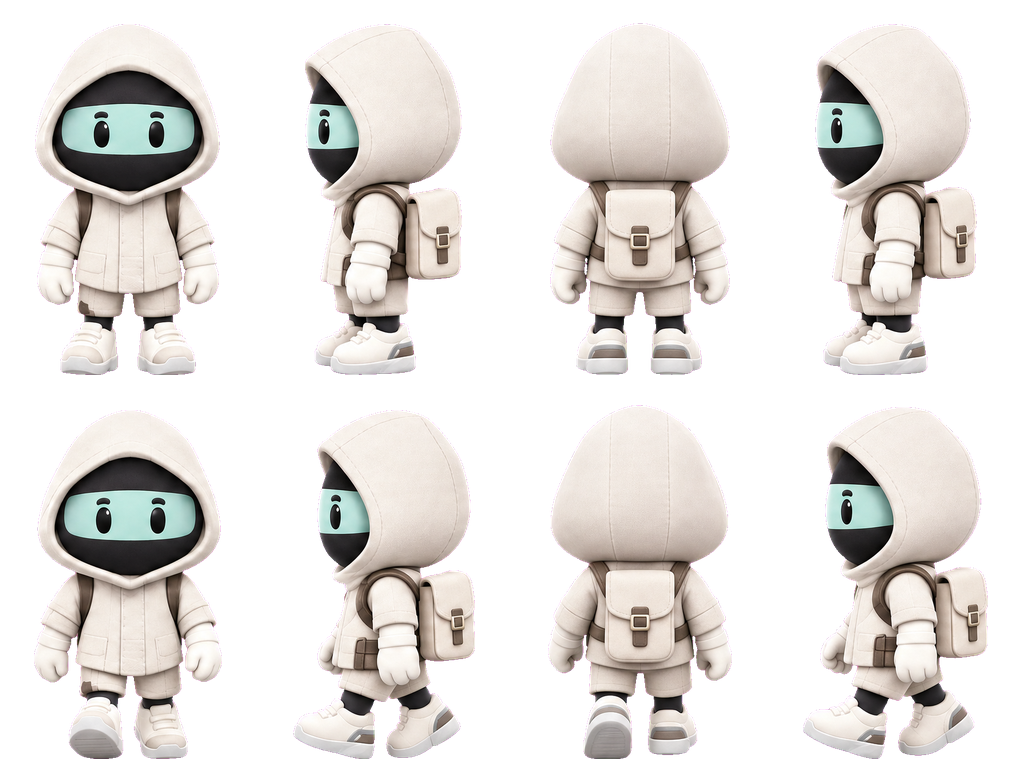
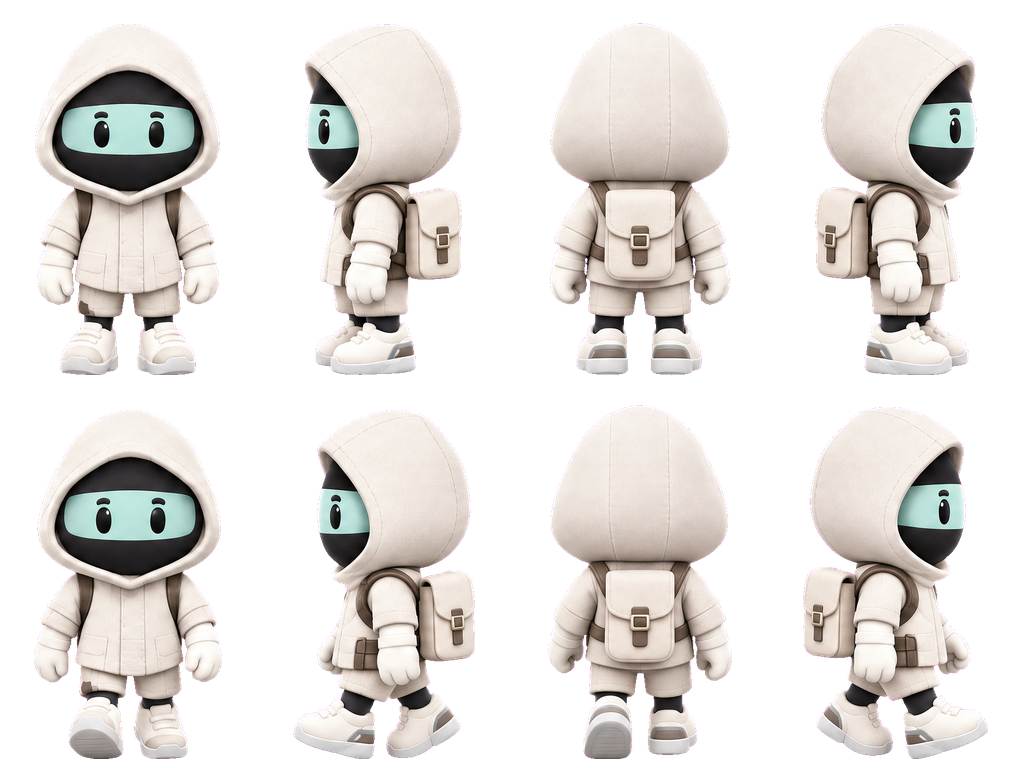
Fix Archive Keeper right-facing art and validate sprite directions

Changed region(s): [[0.7812, 0.5625, 0.9688, 1.0], [0.7812, 0.0625, 0.9688, 0.5]]

diff --git a/tests/costumes.test.ts b/tests/costumes.test.ts
@@ -1,6 +1,7 @@
 import test from 'node:test';
 import assert from 'node:assert/strict';
 import {readFileSync} from 'node:fs';
+import {createHash} from 'node:crypto';
 import {COSTUMES,costumeFor,costumeFrame} from '../shared/costumes';
 import {STORE_ITEMS,emptyInventory,redeemCredits,isStoreItemForSale} from '../shared/store';
 import {readAccount} from '../src/commerce/account-model';
@@ -14,13 +15,13 @@ import {initialState,idleInput,step} from '../src/game/simulation';
 
 test('all six costumes have distinct portraits, eight poses and stable old inventory IDs',()=>{
  assert.equal(COSTUMES.length,6);assert.equal(manifest.length,6);assert.equal(frames.length,8);
- for(const c of COSTUMES){assert(manifest.some(m=>m.name===c.asset&&m.frames===8));assert(readFileSync(`assets/costumes-v4/${c.asset}.png`).length>10000);}
+ for(const c of COSTUMES){const entry=manifest.find(m=>m.name===c.asset);assert(entry&&entry.frames===8);assert(readFileSync(`assets/costumes-v4/${c.asset}.png`).length>10000);assert.equal(createHash('sha256').update(readFileSync(`assets/costumes-v4/${c.asset}-atlas.png`)).digest('hex'),entry.sha256,`${c.asset} matches the validated atlas`);}
  assert.equal(costumeFor('signal-runner').name,'Frost Runner');assert.equal(costumeFor('ghost-courier').name,'Ghost Signal');
  assert.equal(costumeFor('unknown').id,'default');
  const base={week:'2026-09-14',rank:null,points:0,cleared:0,ticks:0,domain:null,wallet:'test',final:false,local:true,earned:false};
  assert.equal(new Set(COSTUMES.map(c=>cardPortrait({...base,outfit:c.id}))).size,6);
 });
-test('courier art faces its movement direction and every walking frame stays inside its atlas',()=>{
+test('courier direction indices and walking frame bounds match the atlas layout',()=>{
  assert.deepEqual([0,1,2,3].map(i=>costumeFrame(i,false)),[0,1,2,3]);
  assert.deepEqual([0,1,2,3].map(i=>costumeFrame(i,true)),[4,5,6,7]);
  for(const f of frames){assert(f.x>=0&&f.y>=0&&f.x+f.width<=1024&&f.y+f.height<=768);}

diff --git a/scripts/prepare-costumes.py b/scripts/prepare-costumes.py
@@ -3,11 +3,17 @@ from pathlib import Path
 import base64, hashlib, json
 import numpy as np
 from PIL import Image, ImageDraw
+from importlib.util import spec_from_file_location, module_from_spec
 
 ROOT=Path(__file__).resolve().parents[1]
 SOURCE=ROOT/'output/imagegen/costumes-v4'
 DEST=ROOT/'assets/costumes-v4'
 NAMES=['default','frost-runner','night-courier','circuit-scout','archive-keeper','ghost-signal']
+# GPT drew both Archive Keeper side columns facing left. Correct the source
+# cells before normalization; do not swap global direction indices.
+MIRRORED_SOURCE_FRAMES={'archive-keeper':(3,7)}
+spec=spec_from_file_location('costume_directions',ROOT/'scripts/check-costume-directions.py')
+directions=module_from_spec(spec);spec.loader.exec_module(directions)
 DEST.mkdir(exist_ok=True)
 manifest=[]; embedded={}
 for name in NAMES:
@@ -29,6 +35,8 @@ for name in NAMES:
     cells=[]; w,h=im.size
     for i in range(8):
         cell=im.crop((i%4*w//4,i//4*h//2,(i%4+1)*w//4,(i//4+1)*h//2))
+        if i in MIRRORED_SOURCE_FRAMES.get(name,()):
+            cell=cell.transpose(Image.Transpose.FLIP_LEFT_RIGHT)
         bounds=cell.getchannel('A').point(lambda x:255 if x>35 else 0).getbbox()
         if not bounds: raise SystemExit(f'Empty {name} frame {i}')
         if bounds[0]<3 or bounds[1]<3 or bounds[2]>cell.width-3 or bounds[3]>cell.height-3:
@@ -39,6 +47,7 @@ for name in NAMES:
     for i,cell in enumerate(cells):
         sprite=cell.resize((round(cell.width*scale),round(cell.height*scale)),Image.Resampling.LANCZOS)
         atlas.alpha_composite(sprite,(i%4*256+(256-sprite.width)//2,i//4*384+375-sprite.height))
+    directions.check_directions(atlas,name)
     atlas.save(DEST/(name+'-atlas.png'),optimize=True)
     front=cells[0]; scale=min(460/front.width,708/front.height)
     front=front.resize((round(front.width*scale),round(front.height*scale)),Image.Resampling.LANCZOS)
@@ -50,6 +59,8 @@ for name in NAMES:
         reference=str((SOURCE/(name+'-reference.png')).relative_to(ROOT)),prompt=str((SOURCE/(name+'.prompt.txt')).relative_to(ROOT)),
         atlas=name+'-atlas.png',portrait=name+'.png',frames=8,frameWidth=256,frameHeight=384,
         sha256=hashlib.sha256((DEST/(name+'-atlas.png')).read_bytes()).hexdigest()))
+    if name in MIRRORED_SOURCE_FRAMES:
+        manifest[-1]['mirroredSourceFrames']=list(MIRRORED_SOURCE_FRAMES[name])
     print('Prepared',name)
 if len(manifest)!=6: raise SystemExit('All six generations are required')
 (DEST/'portraits.embedded.json').write_text(json.dumps(embedded,separators=(',',':'))+'\n')

diff --git a/scripts/check-costume-directions.py b/scripts/check-costume-directions.py
@@ -1,0 +1,53 @@
+"""Check the mint visor's side in the fixed 256x384 courier atlas cells.
+
+This is deliberately specific to our six approved sheets. It checks pixels,
+not frame names, so a generated right pose that actually faces left is rejected.
+Requires Pillow, as does the asset preparation pipeline.
+"""
+from pathlib import Path
+from PIL import Image
+
+
+def check_directions(atlas, name):
+    if atlas.size != (1024, 768):
+        raise ValueError(f'{name}: unexpected atlas size {atlas.size}')
+    results = []
+    for frame in (1, 3, 5, 7):
+        x, y = frame % 4 * 256, frame // 4 * 384
+        head = atlas.crop((x, y, x + 256, y + 190)).convert('RGBA')
+        xs = []
+        for yy in range(head.height):
+            for xx in range(head.width):
+                r, g, b, alpha = head.getpixel((xx, yy))
+                if alpha > 220 and g > r * 1.15 and g > b * 1.03 and g > 90 and b > r * 1.04:
+                    xs.append(xx)
+        if len(xs) < 100:
+            raise ValueError(f'{name} frame {frame}: cannot reliably locate visor; inspect art')
+        center = sum(xs) / len(xs)
+        expected = 'left' if frame in (1, 5) else 'right'
+        if (expected == 'left' and center >= 128) or (expected == 'right' and center <= 128):
+            raise ValueError(f'{name} frame {frame}: visor faces the wrong way for {expected} (x={center:.1f})')
+        results.append({'frame': frame, 'direction': expected, 'visorX': round(center, 1)})
+    return results
+
+
+if __name__ == '__main__':
+    import json
+    root = Path(__file__).resolve().parents[1] / 'assets/costumes-v4'
+    results = {}
+    for file in sorted(root.glob('*-atlas.png')):
+        atlas = Image.open(file).convert('RGBA')
+        results[file.stem] = check_directions(atlas, file.stem)
+        # Negative control: detect this exact bug if any correct right frame is flipped.
+        broken = atlas.copy()
+        cell = atlas.crop((768, 0, 1024, 384)).transpose(Image.Transpose.FLIP_LEFT_RIGHT)
+        broken.paste(cell, (768, 0))
+        try:
+            check_directions(broken, file.stem)
+        except ValueError:
+            pass
+        else:
+            raise AssertionError(f'{file.stem}: failed to detect deliberately reversed right frame')
+    if len(results) != 6:
+        raise AssertionError('Expected all six courier atlases')
+    print(json.dumps(results, indent=2))

diff --git a/docs/HIDEOUT-AUDIT-2026-09-17.md b/docs/HIDEOUT-AUDIT-2026-09-17.md
@@ -49,3 +49,7 @@ The signed Mainnet APK built successfully: `releases/steal-a-seeker-mainnet.apk`
 The initial v4 render mapping incorrectly assumed north=0. The simulation actually uses south=0, west=1, north=2, east=3 and starts at north=2. Corrected the atlas mapping so spawn and upward motion show the backpack, downward motion shows the face, and left/right keep their corresponding profiles. No simulation or scoring rules changed.
 
[1 lines of base64/hex data omitted]
+
+### Follow-up: Archive Keeper side poses
+
+The movement-index test above did not validate the artwork. A pixel audit found that Archive Keeper's right idle/walking frames (3 and 7) both faced left. Corrected these two frames and the source preparation recipe. Audited all 24 side poses across six outfits, with deliberately reversed-frame checks to verify that the validator catches this failure. The other five atlases, portraits, front/back poses, movement logic and replay rules are unchanged. The costume tests now also verify that each atlas matches its validated manifest hash.

diff --git a/assets/costumes-v4/README.md b/assets/costumes-v4/README.md
@@ -7,3 +7,7 @@ Each `NAME.png` is a transparent 512×768 store portrait. `NAME-atlas.png` has e
 The source crops, prompts and generated sheets are preserved in `output/imagegen/costumes-v4/`. `manifest.json` records the actual model and hashes. Run `uv run --with pillow --with numpy python scripts/prepare-costumes.py` to recreate the processed files from those sheets. That step makes no API calls.
 
 Stable inventory IDs preserve old purchases: `signal-runner` now displays Frost Runner; `ghost-courier` displays Ghost Signal. The image filenames follow the reference sheet. All outfits are cosmetic.
+
+Archive Keeper's generated source frames 3 and 7 both faced left. The preparation script now mirrors those two source cells so east-facing idle and walking art face right. This is a source-specific correction, recorded as `mirroredSourceFrames` in the manifest; the other five outfits and global direction mapping are unchanged.
+
+Run `python3 scripts/check-costume-directions.py` (Pillow required) to check the actual side-facing pixels in all six atlases. It locates the mint visor in each side pose and rejects a visor on the wrong half of the frame. It also verifies that deliberately reversing a correct right pose is detected. The preparation script runs the same validation before saving each atlas.

diff --git a/verification/courier-side-fix/README.md b/verification/courier-side-fix/README.md
@@ -1,0 +1,14 @@
+# Courier side-facing correction
+
+Archive Keeper's generated frames 3 and 7 faced left, although the atlas layout assigned them to right-facing idle/walk poses. The simulation's west=1 / east=3 mapping was correct.
+
+Corrected those two art cells and the preparation recipe. No other costume atlas, portrait, movement code, combat rule or payment flow changed.
+
+Verification:
+
+- The pixel validator failed on the original Archive Keeper frame 3 and passes after the fix.
+- All 24 side poses across six outfits pass; all six deliberately reversed-right-frame negative controls are detected. Measurements: `pose-audit.json`.
+- Four focused costume tests pass, including actual tap/stick movement in all four directions and atlas hash verification.
+- TypeScript and rules-manifest checks pass.
+- Actual web gameplay screenshots: `walking-right.png` and `walking-left.png` at 390×844. Archive Keeper's face points along the movement route in each.
+- Web export and signed Android APK rebuilt. Native installation/play still needs a physical device check.
